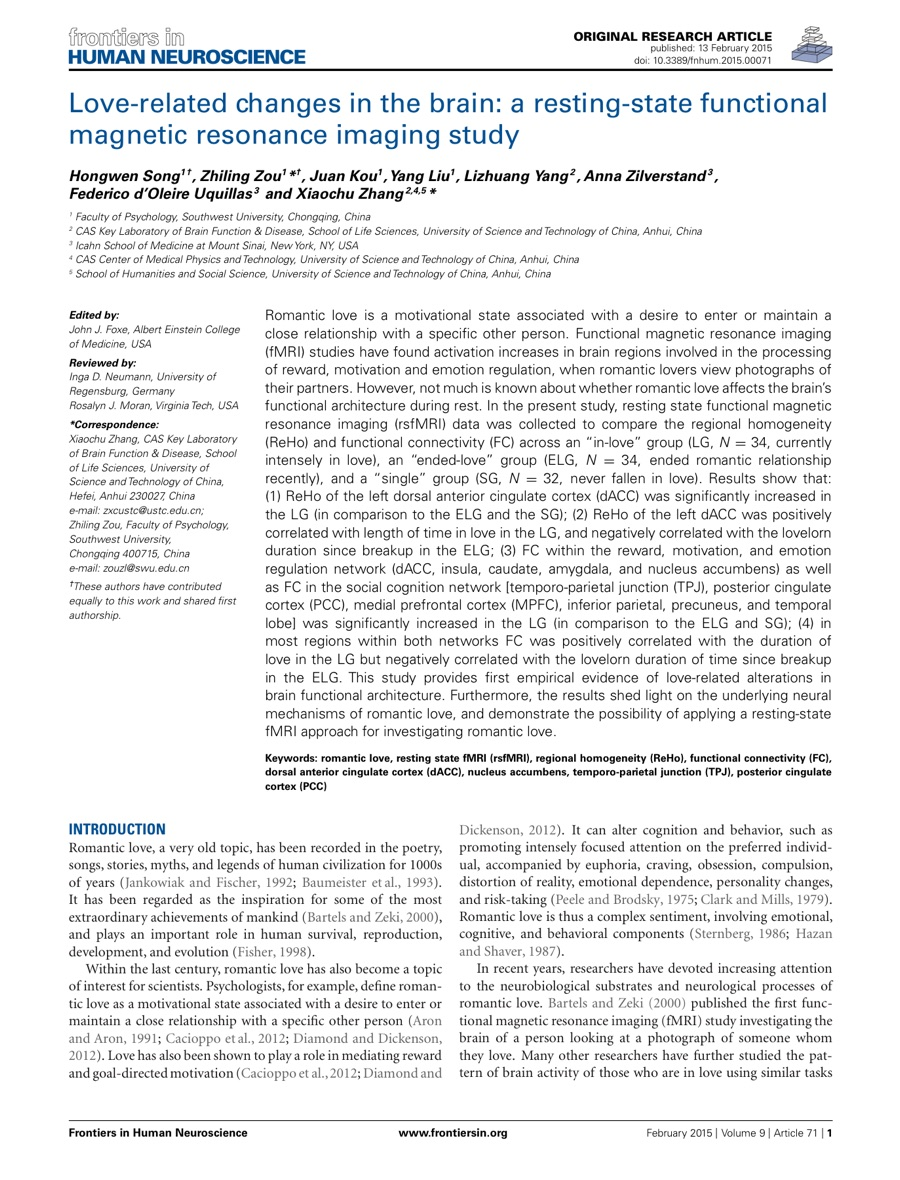
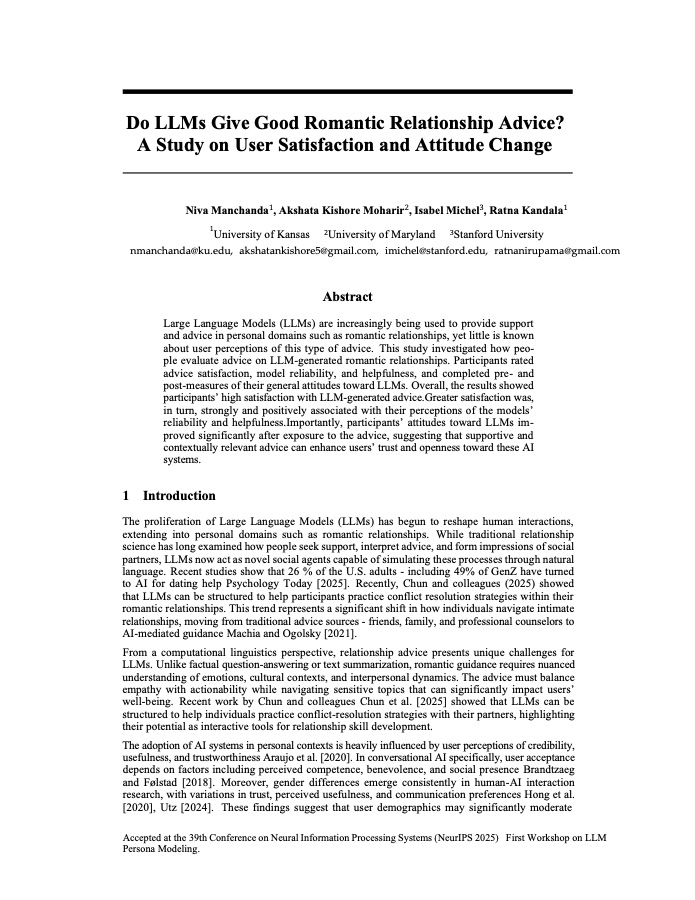
[YMC-430] 체험 논문 9편으로 교체, 오늘의 논문 레이아웃 (#87)
* [YMC-430] docs(design): 체험 논문 9편으로 교체, 오늘의 논문 레이아웃

* [YMC-430] docs(design): 체험 페이지 목록 호버로 큰 자리 전환

Changed region(s): [[0.0604, 0.0, 0.9367, 0.9644]]

diff --git a/design/trial/Paper Trial Page - Marketing.html b/design/trial/Paper Trial Page - Marketing.html
@@ -43,36 +43,35 @@
     .button-primary { display:inline-flex; align-items:center; justify-content:center; gap:12px; min-height:64px; padding:0 44px; background:var(--navy); border:0; border-radius:100px; color:#fff; font-size:18px; font-weight:700; white-space:nowrap; box-shadow:0 0 0 5px rgba(214,185,130,.28),0 18px 36px rgba(36,58,85,.26); transition:background .2s,box-shadow .2s; }
     .button-primary:hover { background:#182e47; box-shadow:0 0 0 7px rgba(214,185,130,.36),0 18px 36px rgba(36,58,85,.3); }
 
-    /* shelf */
+    /* shelf: 오늘의 논문 하나 + 나머지 목록 */
     .shelf { flex:1; min-height:0; display:flex; flex-direction:column; background:var(--walnut); background-image:radial-gradient(ellipse at 50% 0%,rgba(214,185,130,.10) 0,transparent 60%); }
-    .shelf .container { flex:1; min-height:0; display:flex; flex-direction:column; padding-top:28px; padding-bottom:28px; }
-    .shelf-head { display:flex; align-items:center; justify-content:space-between; margin-bottom:18px; color:#b9aa98; font-size:12px; letter-spacing:.12em; text-transform:uppercase; font-weight:700; }
-    .shelf-head span:last-child { letter-spacing:.02em; text-transform:none; font-weight:500; color:#9c8d7b; }
-    .panels { flex:1; min-height:0; display:flex; gap:14px; }
-    .panel { position:relative; flex:1 1 0; min-width:0; display:flex; flex-direction:column; padding:0; border-radius:6px; background:#f4ecdf; border:1px solid rgba(255,255,255,.06); color:var(--ink); overflow:hidden; transition:flex .45s cubic-bezier(.2,.7,.2,1),background .3s; }
-    .panel:hover,.panel:focus-visible { flex:2.1 1 0; background:var(--paper); }
-    .panel-head { display:flex; flex-direction:column; align-items:center; text-align:center; padding:18px 20px 16px; background:#3a2e27; color:#fffaf1; border-bottom:2px solid var(--brass); white-space:nowrap; transition:background .3s; }
-    .panel:hover .panel-head { background:var(--navy); border-bottom-color:#8fa3bd; }
-    .panel-head .kicker { display:flex; align-items:center; gap:8px; color:var(--brass); font-size:11px; font-weight:800; letter-spacing:.14em; text-transform:uppercase; overflow:hidden; }
-    .panel-head .kicker .num { font:600 12px var(--serif); letter-spacing:.04em; color:#e8d9bf; }
-    .panel-head .kicker .en { overflow:hidden; text-overflow:ellipsis; }
-    .panel-head h2 { margin:0; font:600 32px/1.1 var(--serif); letter-spacing:-.04em; color:#fffaf1; }
-    .thumb { position:relative; flex:1; min-height:0; margin:20px 20px 0; overflow:hidden; border-radius:3px 3px 0 0; }
-    .thumb img { display:block; width:100%; height:auto; background:#fff; border:1px solid #e3dac9; border-bottom:0; border-radius:2px 2px 0 0; box-shadow:0 14px 30px rgba(77,56,29,.14); transition:transform .35s; }
-    .panel:hover .thumb img { transform:translateY(-6px); }
-    .thumb:after { content:""; position:absolute; left:0; right:0; bottom:0; height:70px; background:linear-gradient(180deg,rgba(244,236,223,0) 0%,#f4ecdf 100%); transition:background .3s; pointer-events:none; }
-    .panel:hover .thumb:after { background:linear-gradient(180deg,rgba(255,253,248,0) 0%,#fffdf8 100%); }
-    .panel-body { flex:none; padding:16px 20px 20px; }
-    .card-title { margin:0 0 8px; font:600 17px/1.4 var(--serif); letter-spacing:-.02em; display:-webkit-box; -webkit-line-clamp:2; -webkit-box-orient:vertical; overflow:hidden; }
-    .panel:hover .card-title { color:var(--navy); }
-    .card-hook { margin:0; color:var(--muted); font-size:13.5px; line-height:1.65; word-break:keep-all; max-height:0; opacity:0; overflow:hidden; transition:max-height .4s ease,opacity .3s ease .1s; }
-    .panel:hover .card-hook,.panel:focus-visible .card-hook { max-height:80px; opacity:1; }
-    .panel-foot { display:flex; align-items:center; justify-content:space-between; gap:10px; margin-top:10px; color:#9b8f7e; font-size:11.5px; letter-spacing:.02em; white-space:nowrap; }
-    .panel-foot .meta { display:flex; align-items:center; gap:7px; overflow:hidden; }
-    .panel-foot .meta .venue { overflow:hidden; text-overflow:ellipsis; }
-    .panel-foot .dot { flex:none; width:3px; height:3px; border-radius:50%; background:#c2b6a2; }
-    .read { display:inline-flex; align-items:center; gap:6px; flex:none; color:var(--navy); font-size:13px; font-weight:700; opacity:0; transform:translateX(-6px); transition:opacity .25s,transform .25s; }
-    .panel:hover .read,.panel:focus-visible .read { opacity:1; transform:none; }
+    .shelf .container { flex:1; min-height:0; display:grid; grid-template-columns:7fr 5fr; gap:24px; padding-top:24px; padding-bottom:24px; }
+    .feature { position:relative; display:grid; grid-template-columns:1fr 1.15fr; gap:28px; padding:28px 30px 26px; border-radius:8px; background:var(--paper); color:var(--ink); overflow:hidden; }
+    .feature .tag { position:absolute; top:0; left:30px; padding:6px 12px; border-radius:0 0 6px 6px; background:var(--navy); color:#fff; font-size:11.5px; font-weight:800; letter-spacing:.12em; }
+    .feature .pic { position:relative; margin-top:20px; align-self:start; }
+    .feature .pic:before { content:""; position:absolute; inset:8px -8px -8px 8px; background:#fff; border:1px solid #e3dac9; transform:rotate(2deg); }
+    .feature .pic img { position:relative; display:block; width:100%; border:1px solid var(--line); box-shadow:0 18px 36px rgba(77,56,29,.25); transform:rotate(-2deg); transition:transform .35s; }
+    .feature:hover .pic img { transform:rotate(0) translateY(-6px); }
+    .feature .text { display:flex; flex-direction:column; justify-content:center; padding-top:12px; }
+    .feature .topic { margin:0 0 12px; font:600 30px/1 var(--serif); letter-spacing:-.04em; color:var(--navy); }
+    .feature .title { margin:0 0 12px; font:600 22px/1.4 var(--serif); letter-spacing:-.02em; }
+    .feature .hook { margin:0 0 16px; color:var(--muted); font-size:15px; line-height:1.7; word-break:keep-all; }
+    .feature .meta { display:flex; align-items:center; gap:7px; margin-bottom:20px; color:#9b8f7e; font-size:12.5px; }
+    .feature .meta .dot { width:3px; height:3px; border-radius:50%; background:#c2b6a2; }
+    .feature .button-primary { align-self:flex-start; min-height:48px; padding:0 26px; font-size:15px; box-shadow:none; }
+    .others { display:flex; flex-direction:column; border-radius:8px; background:#f4ecdf; overflow:hidden; }
+    .others-head { flex:none; padding:13px 20px 11px; border-bottom:1px solid var(--line); color:#8a6d44; font-size:11.5px; font-weight:800; letter-spacing:.12em; text-transform:uppercase; }
+    .item { flex:1; min-height:0; display:flex; align-items:center; gap:14px; padding:0 20px; border-bottom:1px solid #e9dfcf; color:var(--ink); transition:background .2s; }
+    .item:last-child { border-bottom:0; }
+    .item:hover,.item:focus-visible,.item.active { background:var(--paper); }
+    .item.active .read { opacity:1; transform:none; }
+    .feature .tag[hidden] { display:none; }
+    .item img { flex:none; width:38px; height:50px; object-fit:cover; object-position:top; border:1px solid var(--line); box-shadow:0 3px 8px rgba(77,56,29,.18); }
+    .item .topic { flex:none; width:48px; font:600 16px var(--serif); color:var(--navy); }
+    .item .title { flex:1; min-width:0; font:600 13.5px/1.35 var(--serif); white-space:nowrap; overflow:hidden; text-overflow:ellipsis; }
+    .item .year { flex:none; color:#9b8f7e; font-size:11.5px; }
+    .item .read { flex:none; color:var(--navy); font-size:13px; font-weight:700; opacity:0; transform:translateX(-4px); transition:opacity .25s,transform .25s; }
+    .item:hover .read,.item:focus-visible .read { opacity:1; transform:none; }
 
     .footer { flex:none; padding:14px 0; background:var(--brown); color:#b9aa98; border-top:1px solid rgba(255,255,255,.06); }
     .footer .container { display:flex; justify-content:space-between; align-items:center; gap:20px; font-size:12px; }
@@ -112,61 +111,30 @@
       <button class="button-primary" type="button" data-open-login><svg aria-hidden="true" viewBox="0 0 24 24" width="22" height="22" fill="none" stroke="currentColor" stroke-width="1.8" stroke-linecap="round" stroke-linejoin="round"><path d="M12 16V4m0 0 4 4m-4-4-4 4"/><path d="M4 15v3a2 2 0 0 0 2 2h12a2 2 0 0 0 2-2v-3"/></svg>내 논문 업로드하기</button>
     </div></section>
 
-    <section class="shelf" aria-label="주제별 체험 논문"><div class="container">
-      <div class="shelf-head"><span>Five topics · Five papers</span><span>마우스를 올려 살펴보고, 눌러서 읽어보세요</span></div>
-      <div class="panels">
-
-        <a class="panel" href="../v2/Paper%20Study%20Page.dc.html">
-          <div class="panel-head"><h2>사랑</h2></div>
-          <div class="thumb"><img src="trial-assets/love.jpg" alt="사랑에 빠진 사람의 뇌를 휴지기 fMRI로 비교한 논문의 첫 페이지" loading="eager" /></div>
-          <div class="panel-body">
-            <h3 class="card-title">Love-related Changes in the Brain: A Resting-state fMRI Study</h3>
-            <p class="card-hook">사랑에 빠진 사람, 막 이별한 사람, 연애한 적 없는 사람. 가만히 쉬고 있을 때조차 세 집단의 뇌는 다르게 움직인다.</p>
-            <div class="panel-foot"><div class="meta"><span>2015</span><span class="dot"></span><span class="venue">Frontiers in Human Neuroscience</span></div><span class="read">읽어보기 →</span></div>
-          </div>
-        </a>
-
-        <a class="panel" href="../v2/Paper%20Study%20Page.dc.html">
-          <div class="panel-head"><h2>AI</h2></div>
-          <div class="thumb"><img src="trial-assets/attention.jpg" alt="Attention Is All You Need 논문의 첫 페이지" loading="eager" /></div>
-          <div class="panel-body">
-            <h3 class="card-title">Attention Is All You Need</h3>
-            <p class="card-hook">ChatGPT를 비롯한 오늘날 언어 모델의 뼈대, 트랜스포머가 처음 등장한 논문.</p>
-            <div class="panel-foot"><div class="meta"><span>2017</span><span class="dot"></span><span class="venue">NeurIPS</span></div><span class="read">읽어보기 →</span></div>
-          </div>
-        </a>
-
-        <a class="panel" href="../v2/Paper%20Study%20Page.dc.html">
-          <div class="panel-head"><h2>반도체</h2></div>
-          <div class="thumb"><img src="trial-assets/moore.jpg" alt="무어의 1965년 Electronics 기고문 첫 페이지" loading="eager" /></div>
-          <div class="panel-body">
-            <h3 class="card-title">Cramming More Components onto Integrated Circuits</h3>
-            <p class="card-hook">반세기 동안 반도체 산업을 이끈 '무어의 법칙'이 처음 쓰인 네 쪽짜리 글.</p>
-            <div class="panel-foot"><div class="meta"><span>1965</span><span class="dot"></span><span class="venue">Electronics</span></div><span class="read">읽어보기 →</span></div>
-          </div>
-        </a>
-
-        <a class="panel" href="../v2/Paper%20Study%20Page.dc.html">
-          <div class="panel-head"><h2>우주</h2></div>
-          <div class="thumb"><img src="trial-assets/ligo.jpg" alt="중력파 첫 관측 논문의 첫 페이지" loading="eager" /></div>
-          <div class="panel-body">
-            <h3 class="card-title">Observation of Gravitational Waves from a Binary Black Hole Merger</h3>
-            <p class="card-hook">13억 년 전 두 블랙홀이 합쳐지며 낸 시공간의 떨림을 인류가 처음 들은 날의 기록.</p>
-            <div class="panel-foot"><div class="meta"><span>2016</span><span class="dot"></span><span class="venue">Physical Review Letters</span></div><span class="read">읽어보기 →</span></div>
-          </div>
-        </a>
-
-        <a class="panel" href="../v2/Paper%20Study%20Page.dc.html">
-          <div class="panel-head"><h2>수면</h2></div>
-          <div class="thumb"><img src="trial-assets/sleep.jpg" alt="수면 부족과 외로움 논문의 첫 페이지" loading="eager" /></div>
-          <div class="panel-body">
-            <h3 class="card-title">Sleep Loss Causes Social Withdrawal and Loneliness</h3>
-            <p class="card-hook">하룻밤 잠을 설치면 사람을 피하게 되고, 그 외로움은 옆 사람에게까지 옮는다. 뇌 영상과 실험으로 보인 연구.</p>
-            <div class="panel-foot"><div class="meta"><span>2018</span><span class="dot"></span><span class="venue">Nature Communications</span></div><span class="read">읽어보기 →</span></div>
-          </div>
-        </a>
-
-      </div>
+    <section class="shelf" aria-label="체험 논문"><div class="container">
+      <a class="feature" href="../v2/Paper%20Study%20Page.dc.html">
+        <div class="tag">오늘의 논문</div>
+        <div class="pic"><img src="trial-assets/game.jpg" alt="Playing Atari with Deep Reinforcement Learning 첫 페이지" loading="eager" /></div>
+        <div class="text">
+          <p class="topic">게임</p>
+          <h2 class="title">Playing Atari with Deep Reinforcement Learning</h2>
+          <p class="hook">화면 픽셀만 보고 아타리 게임을 사람보다 잘하게 된 첫 신경망. 지금의 딥마인드가 여기서 시작됐다.</p>
+          <div class="meta"><span class="year">2013</span><span class="dot"></span><span class="venue">arXiv</span></div>
+          <span class="button-primary">읽어보기 →</span>
+        </div>
+      </a>
+      <nav class="others" aria-label="체험 논문 목록">
+        <div class="others-head">주제를 골라보세요</div>
+        <a class="item active" href="../v2/Paper%20Study%20Page.dc.html" data-topic="게임" data-title="Playing Atari with Deep Reinforcement Learning" data-hook="화면 픽셀만 보고 아타리 게임을 사람보다 잘하게 된 첫 신경망. 지금의 딥마인드가 여기서 시작됐다." data-year="2013" data-venue="arXiv" data-image="trial-assets/game.jpg"><img src="trial-assets/game.jpg" alt="" /><span class="topic">게임</span><span class="title">Playing Atari with Deep Reinforcement Learning</span><span class="year">2013</span><span class="read">→</span></a>
+        <a class="item" href="../v2/Paper%20Study%20Page.dc.html" data-topic="수면" data-title="Why Dream? A Conjecture on Dreaming" data-hook="잠은 왜 필요하고 꿈은 왜 꾸는가. 몸이 세포를 갈아 끼우는 동안 뇌가 새 회로를 점검한다는 가설." data-year="2009" data-venue="arXiv" data-image="trial-assets/sleep.jpg"><img src="trial-assets/sleep.jpg" alt="" /><span class="topic">수면</span><span class="title">Why Dream? A Conjecture on Dreaming</span><span class="year">2009</span><span class="read">→</span></a>
+        <a class="item" href="../v2/Paper%20Study%20Page.dc.html" data-topic="돈" data-title="Bitcoin: A Peer-to-Peer Electronic Cash System" data-hook="은행 없이 돈을 보내는 방법을 아홉 쪽에 담은, 비트코인의 출발점." data-year="2008" data-venue="bitcoin.org" data-image="trial-assets/money.jpg"><img src="trial-assets/money.jpg" alt="" /><span class="topic">돈</span><span class="title">Bitcoin: A Peer-to-Peer Electronic Cash System</span><span class="year">2008</span><span class="read">→</span></a>
+        <a class="item" href="../v2/Paper%20Study%20Page.dc.html" data-topic="미술" data-title="Instance Normalization: The Missing Ingredient for Fast Stylization" data-hook="사진을 고흐 풍으로 바꾸는 스타일 변환. 정규화 한 줄을 바꿔 품질을 끌어올린 발견." data-year="2016" data-venue="arXiv" data-image="trial-assets/art.jpg"><img src="trial-assets/art.jpg" alt="" /><span class="topic">미술</span><span class="title">Instance Normalization: The Missing Ingredient for Fast Stylization</span><span class="year">2016</span><span class="read">→</span></a>
+        <a class="item" href="../v2/Paper%20Study%20Page.dc.html" data-topic="사랑" data-title="Do LLMs Give Good Romantic Relationship Advice?" data-hook="연애 고민을 AI에게 털어놓으면 어떻게 될까. 만족도와 태도 변화를 실험으로 본 연구." data-year="2025" data-venue="preprint" data-image="trial-assets/love.jpg"><img src="trial-assets/love.jpg" alt="" /><span class="topic">사랑</span><span class="title">Do LLMs Give Good Romantic Relationship Advice?</span><span class="year">2025</span><span class="read">→</span></a>
+        <a class="item" href="../v2/Paper%20Study%20Page.dc.html" data-topic="음악" data-title="Simple and Controllable Music Generation" data-hook="문장 한 줄로 음악을 만드는 MusicGen. 멜로디까지 조건으로 줄 수 있다." data-year="2023" data-venue="arXiv" data-image="trial-assets/music.jpg"><img src="trial-assets/music.jpg" alt="" /><span class="topic">음악</span><span class="title">Simple and Controllable Music Generation</span><span class="year">2023</span><span class="read">→</span></a>
+        <a class="item" href="../v2/Paper%20Study%20Page.dc.html" data-topic="언어" data-title="Efficient Estimation of Word Representations in Vector Space" data-hook="왕 − 남자 + 여자 = 여왕. 단어를 숫자로 바꾸는 word2vec이 처음 나온 논문." data-year="2013" data-venue="arXiv" data-image="trial-assets/language.jpg"><img src="trial-assets/language.jpg" alt="" /><span class="topic">언어</span><span class="title">Efficient Estimation of Word Representations in Vector Space</span><span class="year">2013</span><span class="read">→</span></a>
+        <a class="item" href="../v2/Paper%20Study%20Page.dc.html" data-topic="우주" data-title="Dissolving the Fermi Paradox" data-hook="외계인은 왜 안 보이는가. 불확실성을 제대로 계산하면 역설이 사라진다는 주장." data-year="2018" data-venue="arXiv" data-image="trial-assets/space.jpg"><img src="trial-assets/space.jpg" alt="" /><span class="topic">우주</span><span class="title">Dissolving the Fermi Paradox</span><span class="year">2018</span><span class="read">→</span></a>
+        <a class="item" href="../v2/Paper%20Study%20Page.dc.html" data-topic="행복" data-title="Happiness Is Assortative in Online Social Networks" data-hook="트위터 글을 분석하니 행복한 사람은 행복한 사람끼리 이어져 있었다. 감정이 네트워크에서 모이는 방식." data-year="2011" data-venue="arXiv" data-image="trial-assets/happiness.jpg"><img src="trial-assets/happiness.jpg" alt="" /><span class="topic">행복</span><span class="title">Happiness Is Assortative in Online Social Networks</span><span class="year">2011</span><span class="read">→</span></a>
+      </nav>
     </div></section>
   </main>
 
@@ -190,6 +158,25 @@
     document.querySelectorAll('[data-open-login]').forEach((b) => b.addEventListener('click', (e) => { e.preventDefault(); modal.showModal(); }));
     document.querySelectorAll('[data-close-login]').forEach((b) => b.addEventListener('click', () => modal.close()));
     modal.addEventListener('click', (e) => { if (e.target === modal) modal.close(); });
+
+    // 목록에 마우스를 올리면 왼쪽 큰 자리가 그 논문으로 바뀐다. 처음은 오늘의 논문.
+    const feature = document.querySelector('.feature');
+    const items = [...document.querySelectorAll('.item')];
+    const today = items.find((i) => i.classList.contains('active'));
+    function show(item) {
+      const d = item.dataset;
+      feature.querySelector('.pic img').src = d.image;
+      feature.querySelector('.pic img').alt = d.title + ' 첫 페이지';
+      feature.querySelector('.topic').textContent = d.topic;
+      feature.querySelector('.title').textContent = d.title;
+      feature.querySelector('.hook').textContent = d.hook;
+      feature.querySelector('.year').textContent = d.year;
+      feature.querySelector('.venue').textContent = d.venue;
+      feature.querySelector('.tag').hidden = item !== today;
+      items.forEach((i) => i.classList.toggle('active', i === item));
+    }
+    items.forEach((i) => { i.addEventListener('mouseenter', () => show(i)); i.addEventListener('focus', () => show(i)); });
+
   </script>
 </body>
 </html>

diff --git a/design/trial/README.md b/design/trial/README.md
@@ -1,12 +1,15 @@
 # 체험 페이지
 
-광고로 유입된 방문자가 가입 없이 Paper Teacher 뷰어를 바로 써볼 수 있도록, 주제별로 미리 준비한 논문 한 편씩을 고르는 데스크톱 전용 페이지 시안이다.
+광고로 유입된 방문자가 가입 없이 Paper Teacher 뷰어를 바로 써볼 수 있도록, 주제별로 미리 준비한 논문 아홉 편 가운데 한 편을 고르는 데스크톱 전용 페이지 시안이다.
 
 ## 화면
 
 - [Paper Trial Page - Marketing](Paper%20Trial%20Page%20-%20Marketing.html)
-- 한 화면(1440×900) 안에 상단 바, 헤드라인과 `내 논문 업로드하기` 버튼, 주제별 논문 패널 다섯 장이 모두 들어가며 스크롤이 없다.
-- 패널은 어두운 분야 명판(사랑 · AI · 반도체 · 우주 · 수면)과 그 아래 논문 첫 페이지, 영문 제목, 연도·학술지로 구성한다. 마우스를 올리면 그 패널이 넓어지며 한국어 한 줄 소개와 `읽어보기`가 나타난다. 패널을 누르면 체험용 뷰어가 열린다.
+- 한 화면(1440×900) 안에 상단 바, 헤드라인과 `내 논문 업로드하기` 버튼, 논문 영역이 모두 들어가며 스크롤이 없다.
+- 논문 영역은 왼쪽 큰 자리 한 편과 오른쪽 아홉 편 목록으로 나뉜다.
+  - 큰 자리는 첫 페이지 이미지, 주제, 영문 제목, 한국어 한 줄 소개, 연도·출처, `읽어보기` 버튼을 보여 준다. 처음에는 `오늘의 논문`(아홉 편을 날짜별로 돌려 가며 고른 것)이 꼬리표와 함께 보인다.
+  - 목록의 각 줄은 작은 첫 페이지 이미지, 주제, 영문 제목, 연도로 구성한다. 줄에 마우스를 올리면 큰 자리가 그 논문으로 바뀌고 그 줄이 밝게 남는다. 마우스를 빼도 마지막 논문이 그대로 남으며, 오늘의 논문이 아니면 꼬리표는 붙지 않는다.
+  - 줄이나 큰 자리를 누르면 체험용 뷰어가 열린다.
 - `내 논문 업로드하기`, 상단 바의 `로그인`, 체험 뷰어의 AI 질문 입력은 모두 같은 모달(`가입하고 무료로 이용해보세요.`)을 띄운다. 정적 시안의 Google 버튼은 동작하지 않는다.
 - 모바일 유입은 이 페이지로 보내지 않고 기존 마케팅 랜딩으로 보낸다. 반응형은 두지 않고 최소 폭 1024px만 잡았다.
 
@@ -14,11 +17,15 @@
 
 | 분야 | 논문 | 출처 |
 |---|---|---|
-| 사랑 | Love-related Changes in the Brain: A Resting-state fMRI Study (Song 외, 2015) | Frontiers in Human Neuroscience, CC BY |
-| AI | Attention Is All You Need (Vaswani 외, 2017) | arXiv 1706.03762 |
-| 반도체 | Cramming More Components onto Integrated Circuits (Moore, 1965) | Electronics 재인쇄본. 공개 라이선스가 아니라 서비스 게재 전 확인 필요 |
-| 우주 | Observation of Gravitational Waves from a Binary Black Hole Merger (LIGO·Virgo, 2016) | arXiv 1602.03837 |
-| 수면 | Sleep Loss Causes Social Withdrawal and Loneliness (Ben Simon·Walker, 2018) | Nature Communications, CC BY |
+| 게임 | Playing Atari with Deep Reinforcement Learning (Mnih 외, 2013) | arXiv 1312.5602 |
+| 수면 | Why Dream? A Conjecture on Dreaming (Stoneham, 2009) | arXiv |
+| 돈 | Bitcoin: A Peer-to-Peer Electronic Cash System (Nakamoto, 2008) | bitcoin.org |
+| 미술 | Instance Normalization: The Missing Ingredient for Fast Stylization (Ulyanov 외, 2016) | arXiv 1607.08022 |
+| 사랑 | Do LLMs Give Good Romantic Relationship Advice? A Study on User Satisfaction and Attitude Change (Manchanda 외, 2025) | TBD. PDF에 게재처 표기가 없다 |
+| 음악 | Simple and Controllable Music Generation (Copet 외, 2023) | arXiv 2306.05284 |
+| 언어 | Efficient Estimation of Word Representations in Vector Space (Mikolov 외, 2013) | arXiv 1301.3781 |
+| 우주 | Dissolving the Fermi Paradox (Sandberg 외, 2018) | arXiv 1806.02404 |
+| 행복 | Happiness Is Assortative in Online Social Networks (Bollen 외, 2011) | arXiv 1103.0784 |
 
 `trial-assets/`의 이미지는 위 PDF의 첫 페이지를 가로 900px JPEG로 만든 것이다. 서비스 구현에서는 파서가 만든 첫 페이지 이미지로 대체한다.
 
@@ -30,5 +37,6 @@
 
 ## 참고
 
+- 시안은 게임 논문을 오늘의 논문으로 세워 두었다.
 - 체험 뷰어 상단 바의 플랜 배지·프로필 자리를 비로그인 상태에서 어떻게 둘지(비움 / 로그인 버튼)는 TBD.
 - 체험 논문 데이터는 `contracts/frontend-backend/openapi.yaml` 0.14.0의 `/api/trial/papers/{paperId}/*` 세 경로(본문·지식 그래프·선행지식 설명)를 따른다. 목록 API는 없고 주제·소개 문구와 paperId는 FE가 호스트별 정적 설정(`fe/src/trial/trialPapers.ts`)으로 갖는다.
